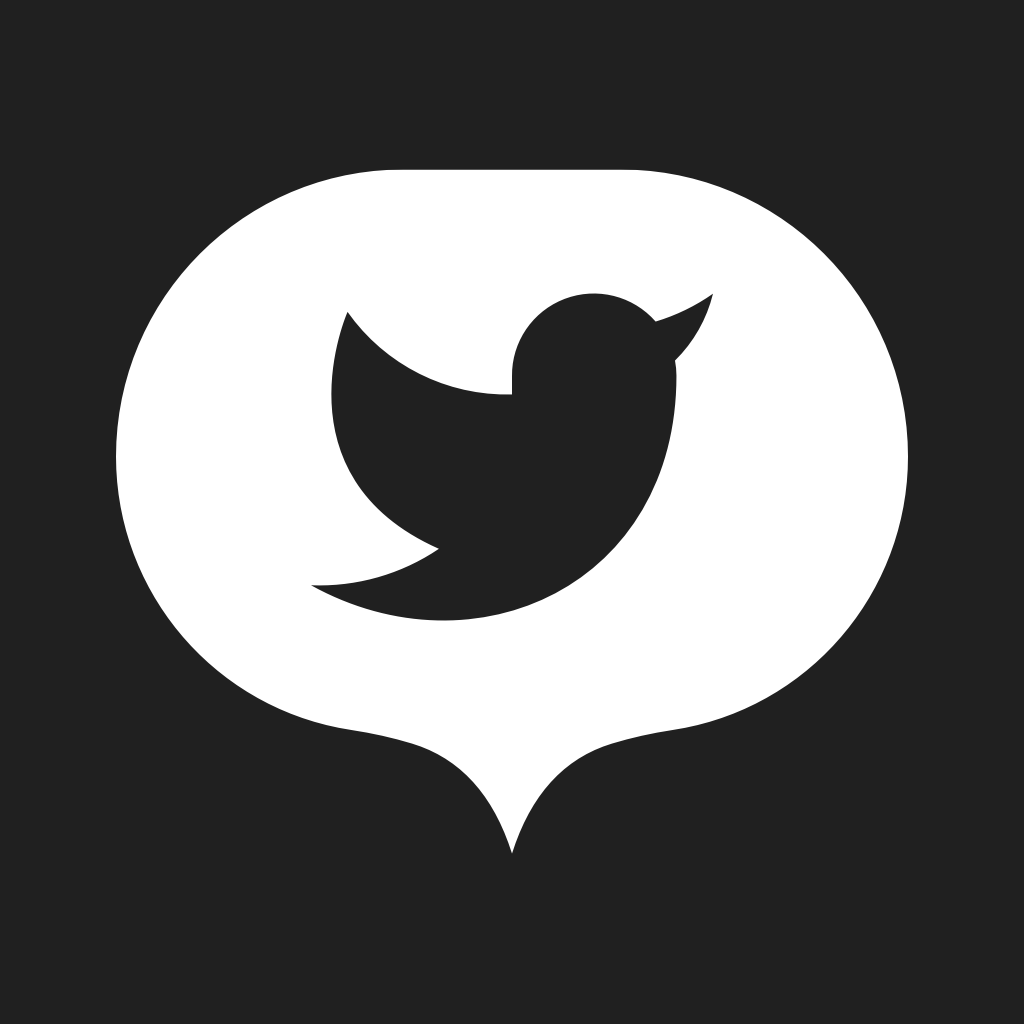
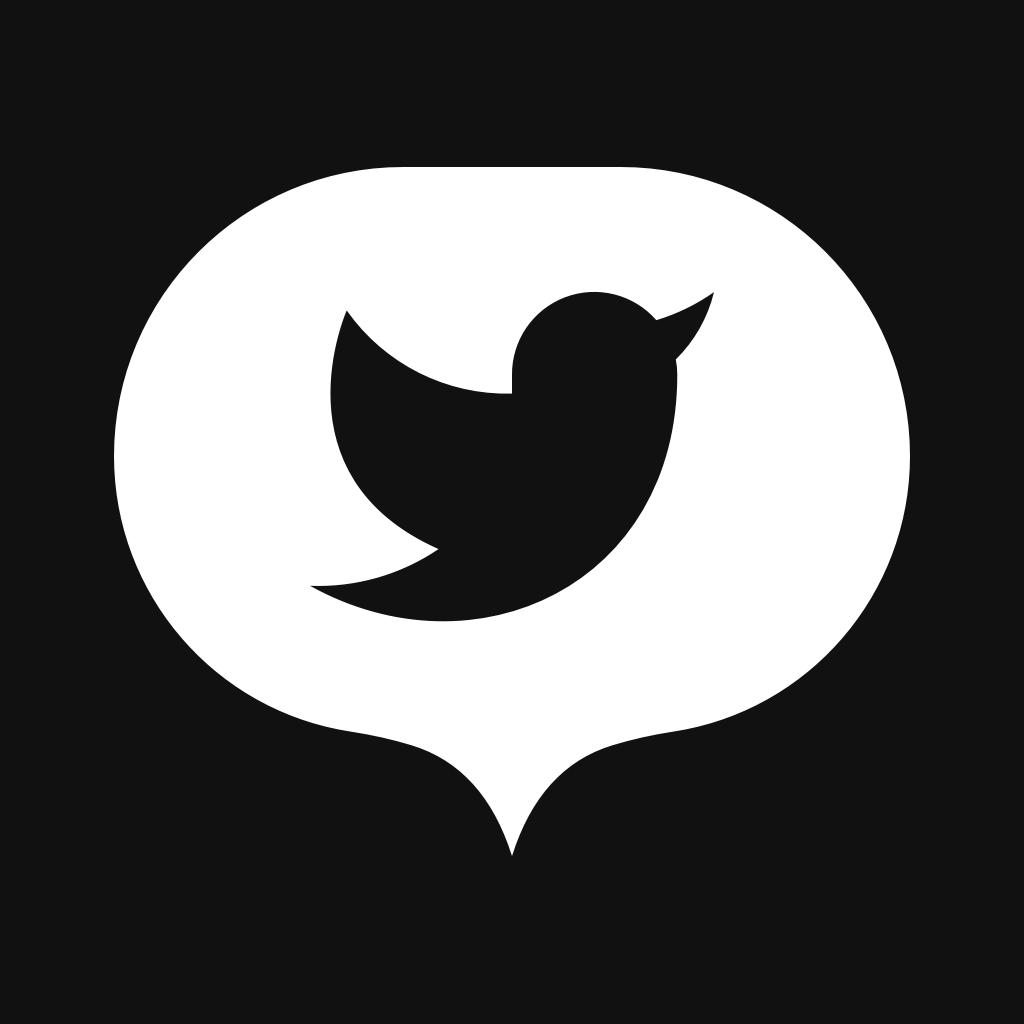
:lipstick: Updated color scheme

diff --git a/components/Sections/Extensions.vue b/components/Sections/Extensions.vue
@@ -3,22 +3,22 @@
 		<v-flex xs12>
 			<v-container grid-list-xl>
 				<v-layout row wrap align-center>
-					<v-flex xs12 md4>
+					<v-flex xs12 sm12 md4>
 						<v-card class="elevation-0 transparent" data-aos="fade-right">
 							<v-card-text primary-title class="text-xs-center">
 								<IconExtensions width="64px" height="64px" />
 								<div
-									class="display-3 text-xs-center font-weight-black text-uppercase"
+									class="primary--text display-3 text-xs-center font-weight-black text-uppercase"
 								>
 									Extensions
 								</div>
 								<div
-									class="caption text-spaced text-xs-center text-uppercase font-weight-thin"
+									class="primary--text caption text-spaced text-xs-center text-uppercase font-weight-thin"
 								>
 									Section subheading text goes here
 								</div>
 							</v-card-text>
-							<v-card-text>
+							<v-card-text class="primary--text">
 								Cras facilisis mi vitae nunc lobortis pharetra. Nulla volutpat
 								tincidunt ornare. Pellentesque habitant morbi tristique senectus et
 								netus et malesuada fames ac turpis egestas. Nullam in aliquet odio.
@@ -26,7 +26,7 @@
 							</v-card-text>
 						</v-card>
 					</v-flex>
-					<v-flex xs12 md8>
+					<v-flex xs12 sm12 md8>
 						<v-card
 							class="ma-3 transparent elevation-0"
 							data-aos="fade-left"

diff --git a/components/Sections/OSS.vue b/components/Sections/OSS.vue
@@ -1,25 +1,25 @@
 <template>
-	<v-layout align-center column wrap class="py-5 grey darken-4">
+	<v-layout align-center column wrap class="py-5 primary">
 		<v-flex xs12>
 			<v-container grid-list-xl>
 				<v-layout row wrap align-center>
-					<v-flex xs12 md8>
+					<v-flex xs12 sm12 md8>
 						<v-card
 							class="ma-3 transparent elevation-0"
 							data-aos="fade-right"
 							data-aos-delay="200"
 						>
-							<v-responsive height="40vh" class="grey darken-3" />
+							<v-responsive height="40vh" class="grey darken-4" />
 						</v-card>
 					</v-flex>
-					<v-flex xs12 md4>
+					<v-flex xs12 sm12 md4>
 						<v-card dark class="elevation-0 transparent" data-aos="fade-left">
 							<v-card-text primary-title class="text-xs-center">
-								<IconOther width="64px" height="64px" />
+								<IconOSS width="64px" height="64px" />
 								<div
 									class="display-3 text-xs-center font-weight-black text-uppercase"
 								>
-									Other
+									Open Source
 								</div>
 								<div
 									class="caption text-spaced text-xs-center text-uppercase font-weight-thin"
@@ -42,11 +42,11 @@
 </template>
 
 <script>
-import IconOther from '~/static/icons/other.svg';
+import IconOSS from '~/static/icons/oss.svg';
 
 export default {
 	components: {
-		IconOther,
+		IconOSS,
 	},
 };
 </script>

diff --git a/components/Sections/Header.vue b/components/Sections/Header.vue
@@ -21,7 +21,7 @@
 					data-aos-duration="1200"
 					data-aos-easing="ease-in-out-back"
 				>
-					<h1 class="display-3 text-xs-center font-weight-black text-uppercase">
+					<h1 class="primary--text display-3 text-xs-center font-weight-black text-uppercase">
 						Extend your deck
 					</h1>
 				</v-card-text>
@@ -32,7 +32,7 @@
 					data-aos-duration="1200"
 					data-aos-easing="ease-in-out-back"
 				>
-					<p class="caption text-spaced text-xs-center text-uppercase font-weight-thin">
+					<p class="primary--text caption text-spaced text-xs-center text-uppercase font-weight-thin">
 						Install and manage extensions for TweetDeck
 					</p>
 				</v-card-text>
@@ -48,6 +48,7 @@
 						block
 						round
 						depressed
+						color="primary"
 						class="mx-4 headerBtn"
 						v-scroll-to="{ el: '#download', duration: 1000, easing: 'ease-in-out' }"
 					>
@@ -61,6 +62,7 @@
 						block
 						round
 						outline
+						color="primary"
 						class="mx-4 headerBtn"
 						href="https://github.com/tdemapp"
 						aria-label="GitHub"

diff --git a/components/DialogDisclaimer.vue b/components/DialogDisclaimer.vue
@@ -7,7 +7,7 @@
 
 		<v-dialog v-model="dialog" max-width="490">
 			<v-card light>
-				<v-toolbar flat dark color="grey darken-4">
+				<v-toolbar flat dark color="primary">
 					<v-card-title>
 						<IconInfo class="mr-2" />
 						<h1 class="text-spaced text-uppercase font-weight-black ml-2">
@@ -25,7 +25,7 @@
 				</v-toolbar>
 
 				<v-card-text class="pb-2">
-					<span class="text-spaced-button font-weight-thin">
+					<span class="primary--text text-spaced-button font-weight-thin">
 						TDEM uses the
 						<a
 							href="https://github.com/DeckHack/TD.extensions"
@@ -41,7 +41,7 @@
 				<v-divider class="mx-2" />
 
 				<v-card-text class="pt-2">
-					<span class="text-spaced-button font-weight-thin"
+					<span class="primary--text text-spaced-button font-weight-thin"
 						>As such please do take care when installing extensions and
 						<strong class="font-weight-black">NEVER</strong> install anything that looks
 						suspicious/malicious.</span

diff --git a/components/Sections/Dashboard.vue b/components/Sections/Dashboard.vue
@@ -1,18 +1,18 @@
 <template>
-	<v-layout align-center row wrap class="py-5 grey darken-4">
+	<v-layout align-center row wrap class="py-5 primary">
 		<v-flex xs12>
 			<v-container grid-list-xl>
 				<v-layout row wrap align-center>
-					<v-flex xs12 md8>
+					<v-flex xs12 sm12 md8>
 						<v-card
 							class="ma-3 transparent elevation-0"
 							data-aos="fade-right"
 							data-aos-delay="200"
 						>
-							<v-responsive height="40vh" class="grey darken-3" />
+							<v-responsive height="40vh" class="grey darken-4" />
 						</v-card>
 					</v-flex>
-					<v-flex xs12 md4>
+					<v-flex xs12 sm12 md4>
 						<v-card dark class="elevation-0 transparent" data-aos="fade-left">
 							<v-card-text primary-title class="text-xs-center">
 								<IconDashboard width="64px" height="64px" />

diff --git a/pages/index.vue b/pages/index.vue
@@ -3,7 +3,7 @@
 		<Header />
 		<Dashboard />
 		<Extensions />
-		<Other />
+		<OSS />
 		<Download />
 	</section>
 </template>
@@ -13,7 +13,7 @@ import Dashboard from '~/components/Sections/Dashboard';
 import Download from '~/components/Sections/Download';
 import Extensions from '~/components/Sections/Extensions';
 import Header from '~/components/Sections/Header';
-import Other from '~/components/Sections/Other';
+import OSS from '~/components/Sections/OSS';
 
 export default {
 	metaInfo: {
@@ -24,7 +24,7 @@ export default {
 		Download,
 		Extensions,
 		Header,
-		Other,
+		OSS,
 	},
 	head() {
 		return {

diff --git a/components/Sections/Download.vue b/components/Sections/Download.vue
@@ -11,7 +11,7 @@
 								data-aos-easing="ease-in-out-back"
 							>
 								<h1
-									class="display-3 text-spaced header text-xs-center font-weight-black text-uppercase"
+									class="primary--text display-3 text-spaced header text-xs-center font-weight-black text-uppercase"
 								>
 									Download
 								</h1>

diff --git a/plugins/vuetify.js b/plugins/vuetify.js
@@ -4,4 +4,12 @@ import Vuetify from 'vuetify';
 import 'vuetify/dist/vuetify.min.css';
 import 'vuetify/src/stylus/app.styl';
 
-Vue.use(Vuetify);
+Vue.use(Vuetify, {
+  theme: {
+    primary: '#111111',
+    secondary: '#161616',
+    info: '#0076FF',
+    success: '#2CBE4E',
+    error: '#FF0000',
+  },
+});

diff --git a/components/Footer.vue b/components/Footer.vue
@@ -1,7 +1,7 @@
 <template>
 	<v-footer dark height="auto">
 		<v-card flat tile class="flex my-0 py-0">
-			<v-card-title class="grey darken-4">
+			<v-card-title class="primary">
 				<v-spacer />
 
 				<v-btn dark flat large to="/" aria-label="Home">
